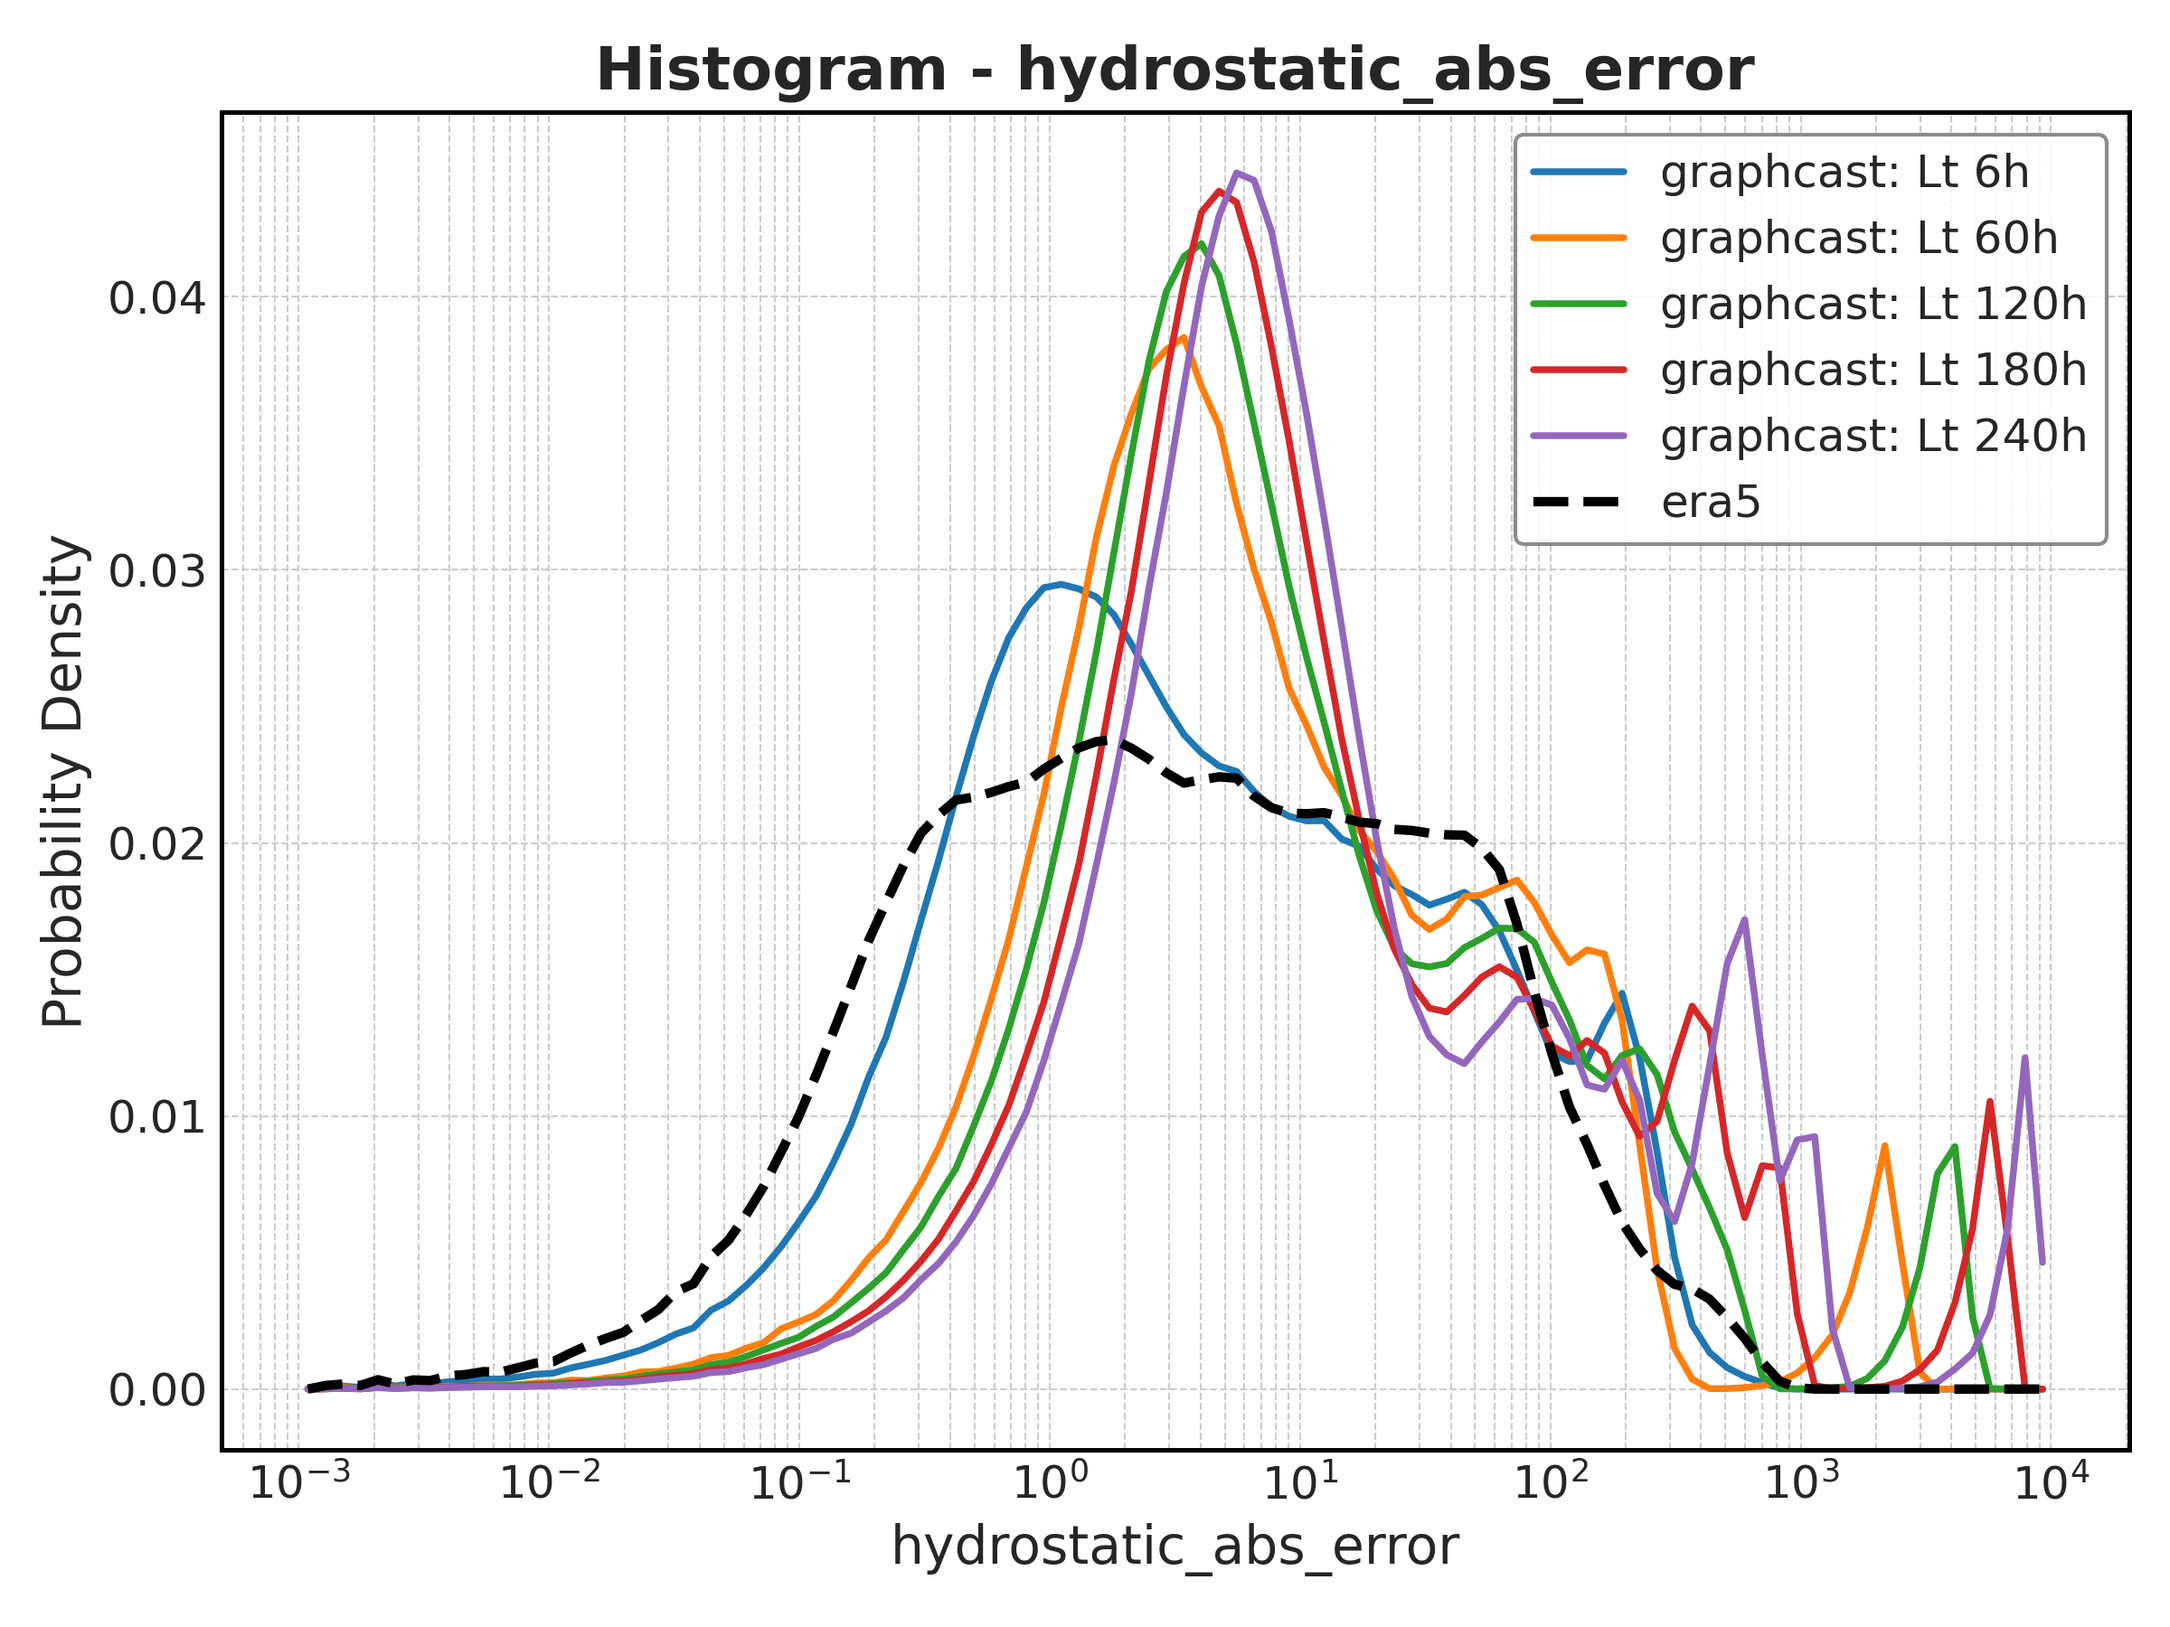
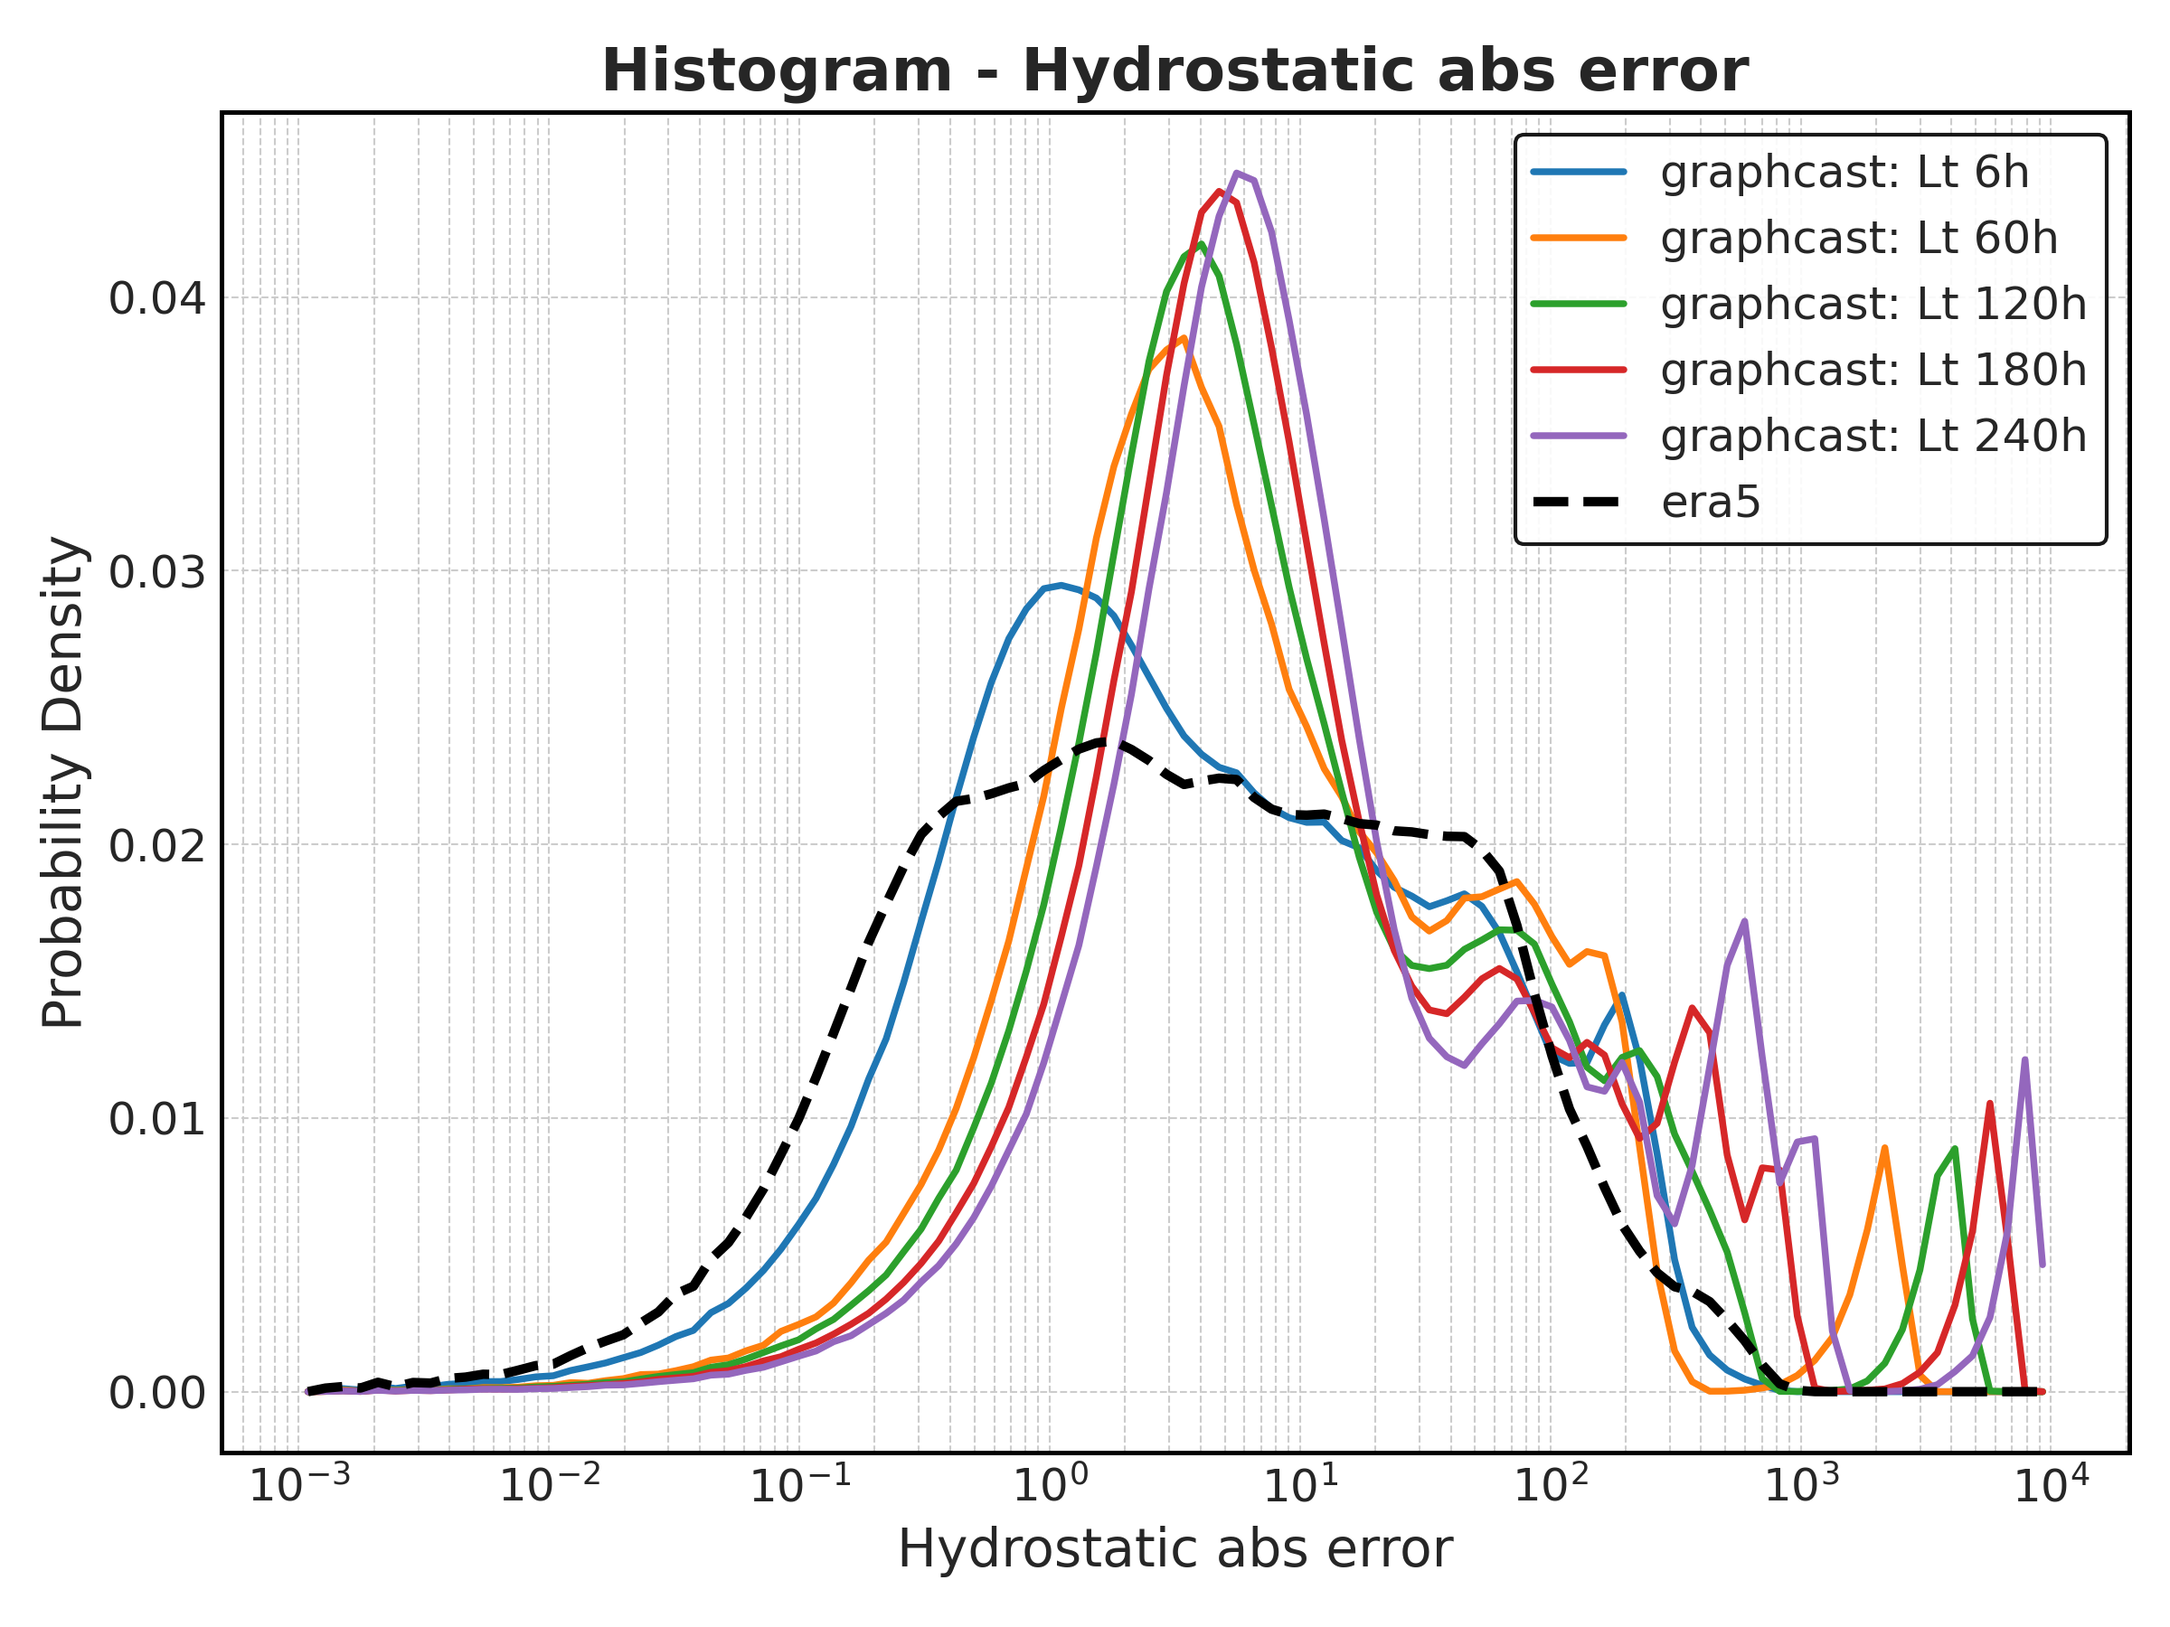
add vertical profiles

diff --git a/pace/utils/plot_utils/vertical_profile.py b/pace/utils/plot_utils/vertical_profile.py
@@ -1,0 +1,192 @@
+import numpy as np
+from pathlib import Path
+import matplotlib.pyplot as plt
+from typing import List, Dict, Tuple, Optional
+import seaborn as sns
+
+
+def compute_summary_stats(
+    store: Dict[Tuple[str, np.datetime64, int], np.ndarray],
+    selected_leadtimes: Optional[List[int]] = None,
+    summary_stats: List[str] = ["mean", "stdev", "min", "max"],
+) -> Dict[str, Dict[str, np.ndarray]]:
+    """
+    Compute summary statistics over lat/lon per vertical level, sample-wise then averaged.
+
+    Parameters:
+    - store: dict of {(var_name, base_time, lead_time): np.ndarray}, shape [1, level, lat, lon]
+    - selected_leadtimes: list of lead times for model, None for reference (all leadtimes)
+    - summary_stats: list of stats to compute: mean, stdev, min, max
+
+    Returns:
+    - results: dict[var_name][stat] = np.ndarray shape [num_levels] for reference or
+      shape [num_leadtimes, num_levels] for model.
+    """
+
+    # Use nan-safe numpy funcs
+    stat_funcs = {
+        "mean": np.nanmean,
+        "stdev": np.nanstd,
+        "min": np.nanmin,
+        "max": np.nanmax,
+    }
+
+    # Accumulate per sample statistics in lists:
+    # For model: var_name -> lead_time -> stat -> list of arrays shape [levels]
+    # For reference: var_name -> stat -> list of arrays shape [levels]
+    if selected_leadtimes is not None:
+        # MODEL
+        data_accum = {}
+        for (var_name, base_time, lead_time), arr in store.items():
+            if lead_time not in selected_leadtimes:
+                continue
+            if var_name not in data_accum:
+                data_accum[var_name] = {}
+            if lead_time not in data_accum[var_name]:
+                data_accum[var_name][lead_time] = {stat: [] for stat in summary_stats}
+
+            data = np.array(arr)  # shape [1, level, lat, lon]
+            data = data.squeeze()  # [level, lat, lon]
+            if data.ndim != 3:
+                # print(f"Skipping sample {var_name} {base_time} {lead_time}, unexpected shape {data.shape}")
+                continue
+
+            for stat in summary_stats:
+                val = stat_funcs[stat](data, axis=(-2, -1))  # nan-aware over lat/lon
+                data_accum[var_name][lead_time][stat].append(val)
+
+        # Now average all per-sample stats for each var, lead_time, stat
+        results = {}
+        for var_name, lt_dict in data_accum.items():
+            results[var_name] = {}
+            for stat in summary_stats:
+                # collect all lead_time arrays for this stat: shape [num_leadtimes, levels]
+                stat_per_lt = []
+                leadtimes_sorted = sorted(lt_dict.keys())
+                for lt in leadtimes_sorted:
+                    arrs = lt_dict[lt][stat]  # list of arrays shape [levels]
+                    # mean over all samples for this leadtime
+                    mean_arr = np.nanmean(arrs, axis=0)
+                    stat_per_lt.append(mean_arr)
+                results[var_name][stat] = np.stack(stat_per_lt, axis=0)  # shape [num_leadtimes, levels]
+    
+    else:
+        # REFERENCE: accumulate stats over all samples (all base_time and lead_time)
+        data_accum = {}
+        for (var_name, base_time, lead_time), arr in store.items():
+            if var_name not in data_accum:
+                data_accum[var_name] = {stat: [] for stat in summary_stats}
+
+            data = np.array(arr)  # [1, level, lat, lon]
+            data = data.squeeze()  # [level, lat, lon]
+            if data.ndim != 3:
+                # print(f"Skipping sample {var_name} {base_time} {lead_time}, unexpected shape {data.shape}")
+                continue
+
+            for stat in summary_stats:
+                val = stat_funcs[stat](data, axis=(-2, -1))
+                data_accum[var_name][stat].append(val)
+
+        results = {}
+        for var_name, stat_dict in data_accum.items():
+            results[var_name] = {}
+            for stat in summary_stats:
+                arrs = stat_dict[stat]  # list of arrays shape [levels,]
+                if len(arrs) == 0:
+                    print(f"No valid samples for {var_name} stat {stat}")
+                    continue
+                stacked = np.stack(arrs, axis=0)  # shape [num_samples, levels]
+                # Average over all samples (axis=0) -> result shape [levels,]
+                results[var_name][stat] = np.nanmean(stacked, axis=0)
+
+    return results
+
+
+def plot_profiles(
+    results_model: Dict[str, Dict[str, np.ndarray]],
+    results_ref: Optional[Dict[str, Dict[str, np.ndarray]]],
+    output_dir: Path,
+    summary_stats: List[str],
+    model_name: str = "Model",
+    ref_name: str = "Reference",
+):
+    """
+    Plot vertical profiles for each variable and summary stat.
+
+    Model: results_model[var][stat] shape [num_leadtimes, levels]
+    Reference: results_ref[var][stat] shape [levels]
+
+    vertical_levels inferred as integers [0,...,n_levels-1]
+    """
+
+    sns.set_style("whitegrid")
+    out_dir = output_dir / "vertical_profiles"
+    out_dir.mkdir(parents=True, exist_ok=True)
+
+    for var_name in results_model.keys():
+        for stat in summary_stats:
+            plt.figure(figsize=(6, 8))
+
+            data_model = results_model[var_name].get(stat)
+            if data_model is None:
+                continue
+
+            # Determine number of levels from data_model shape
+            if data_model.ndim == 2:
+                n_levels = data_model.shape[1]
+            else:  
+                continue
+
+            vertical_levels = np.arange(n_levels)
+
+            # Plot model lead times
+            num_leadtimes = data_model.shape[0]
+
+            # Create color palette for num_leadtimes
+            palette = sns.color_palette("tab10", n_colors=num_leadtimes)
+
+            for i in range(num_leadtimes):
+                plt.plot(
+                    data_model[i], vertical_levels,
+                    label=f"{model_name} Lt {i+1}",
+                    color=palette[i % len(palette)],
+                    linewidth=1.8,
+                )
+
+            # Plot reference as a thick black line if available
+            if results_ref and var_name in results_ref and stat in results_ref[var_name]:
+                data_ref = results_ref[var_name][stat]
+                if data_ref.shape[0] == n_levels:
+                    plt.plot(
+                        data_ref, vertical_levels,
+                        label=f"{ref_name}",
+                        color='black',
+                        linewidth=2.5,
+                        linestyle='--',
+                    )
+                else:
+                    print(f"Reference data shape mismatch for {var_name} {stat}: {data_ref.shape} vs {n_levels}")
+
+            ax = plt.gca()
+            ax.invert_yaxis()  # pressure or height: usually top-down
+            plt.xlabel(f"{var_name.replace('_', ' ').capitalize()} ({stat})", fontsize=14)
+            plt.ylabel("Vertical Level", fontsize=14)
+            plt.title(f"Vertical Profile of {var_name.replace('_', ' ').capitalize()} ({stat})", fontsize=14, weight='bold')
+
+            # Styling from histograms:
+            ax.tick_params(axis='both', which='major', labelsize=12, direction='in', length=6, width=1.2)
+            ax.tick_params(axis='both', which='minor', direction='in', length=3, width=1)
+            for spine in ax.spines.values():
+                spine.set_linewidth(1.2)
+                spine.set_color('black')
+
+            plt.grid(True, which='both', linestyle='--', linewidth=0.5, alpha=1)
+
+            leg = plt.legend(frameon=True, fontsize=12, loc='best', edgecolor='black', fancybox=True)
+            leg.get_frame().set_alpha(0.9)
+
+            plt.tight_layout()
+            filename = f"{var_name}_{stat}.png"
+            plt.savefig(out_dir / filename, dpi=300)
+            print(f"Saved: {out_dir}/{filename}")
+            plt.close()

diff --git a/pace/postprocess.py b/pace/postprocess.py
@@ -5,7 +5,6 @@ from pathlib import Path
 import time
 import zarr  
 
-
 def is_viz_enabled(config: dict, key: str) -> bool:
     """
     Check if a visualization type is enabled in config.
@@ -91,47 +90,69 @@ def main():
     outputs_dir = Path(os.path.expandvars(config["outputs_dir"]))
     plots_dir = Path(os.path.expandvars(str(config["visualization"].get("plots_dir") or Path(os.path.abspath(os.path.dirname(__file__))) / "plots")))
 
+    model_name = config['datasets']['model']['name']
+    total_leadtimes = config["time"]["lead_times"]
+    model_path = outputs_dir / f"{model_name}.zarr"
+    model_leadtimes = select_sample_leadtimes(model_path, total_expected=total_leadtimes)
+    model_store = unpack_custom_zarr_vars(model_path)
+
+    ref_name = None
+    ref_store = {}
+    if "reference" in config["datasets"] and config["datasets"]["reference"].get("name"):
+        ref_name = config['datasets']['reference']['name']
+        ref_path = outputs_dir / f"{ref_name}.zarr"
+        ref_store = unpack_custom_zarr_vars(ref_path)
+
     # --- HISTOGRAM visualization ---
     if is_viz_enabled(config, "histogram"):
         print("Running histogram visualization...")
         from utils.plot_utils import histogram  # only import if needed
 
-        model_name = config['datasets']['model']['name']
         bin_config = histogram.BIN_CONFIG
-        total_leadtimes = config["time"]["lead_times"]
-
-        model_path = outputs_dir / f"{model_name}.zarr"
-        model_leadtimes = select_sample_leadtimes(model_path, total_expected=total_leadtimes)
-        model_store = unpack_custom_zarr_vars(model_path)
 
         _, model_hist = histogram.compute_histograms(
             model_store, selected_leadtimes=model_leadtimes, bin_config=bin_config
         )
 
-        ref_hist = {}
-        ref_name = None
-        if "reference" in config["datasets"] and config["datasets"]["reference"].get("name"):
-            ref_name = config['datasets']['reference']['name']
-            ref_path = outputs_dir / f"{ref_name}.zarr"
-            ref_store = unpack_custom_zarr_vars(ref_path)
-            _, ref_hist = histogram.compute_histograms(
-                ref_store, selected_leadtimes=None, bin_config=bin_config
-            )
+        _, ref_hist = histogram.compute_histograms(
+            ref_store, selected_leadtimes=None, bin_config=bin_config
+        ) if ref_store else ({}, {})
 
         histogram.plot_hist(model_hist, ref_hist, plots_dir, bin_config, model_name, ref_name)
-
     else:
-        print("Histogram visualization disabled in config.")
+        print("Histogram visualization disabled in config.\n")
 
-    # --- OTHER visualizations can follow here ---
-    # Example:
-    # if is_viz_enabled(config, "scatter"):
-    #     from utils.plot_utils import scatter
-    #     scatter.plot_something(...)
+    # --- VERTICAL PROFILE visualization ---
+    if is_viz_enabled(config, "vertical_profile"):
+        print("\nRunning vertical profile visualization...")
+        from utils.plot_utils import vertical_profile
+
+        summary_stats = config.get("visualization", {}).get("summary_stats", ["mean"])
+
+        profiles = vertical_profile.compute_summary_stats(
+            model_store,
+            selected_leadtimes=model_leadtimes,
+            summary_stats=summary_stats,
+        )
+        ref_profiles = vertical_profile.compute_summary_stats(
+            ref_store,
+            selected_leadtimes=None,
+            summary_stats=summary_stats,
+        ) if ref_store else {}
+
+        vertical_profile.plot_profiles(
+            profiles,
+            ref_profiles,
+            plots_dir,
+            summary_stats,
+            model_name,
+            ref_name,
+        )
+    else:
+        print("Vertical profile visualization disabled in config.\n")
 
     time_end = time.perf_counter()
-    print(f"Elapsed time: {time_end - time_start:.2f} s")
-
+    print(f"\nElapsed time: {time_end - time_start:.2f} s")
 
 if __name__ == "__main__":
     main()

diff --git a/pace/utils/plot_utils/histogram.py b/pace/utils/plot_utils/histogram.py
@@ -115,7 +115,7 @@ def plot_hist(
     for metric in model_hist.keys():
         plt.figure(figsize=(8, 6))
 
-        # Plot model histograms with colors and markers
+        # Plot model histograms with colors
         for i, (lt, (centers, counts)) in enumerate(sorted(model_hist[metric].items(), key=lambda x: x[0])):
             plt.plot(
                 centers, counts,
@@ -141,8 +141,8 @@ def plot_hist(
                 color='black'
             )
 
-        plt.title(f"Histogram - {metric}", fontsize=16, weight='bold')
-        plt.xlabel(metric, fontsize=14)
+        plt.title(f"Histogram - {metric.replace('_', ' ').capitalize()}", fontsize=16, weight='bold')
+        plt.xlabel(f"{metric.replace('_', ' ').capitalize()}", fontsize=14)
         plt.ylabel("Probability Density", fontsize=14)
 
         # Improve axes aesthetics
@@ -161,7 +161,7 @@ def plot_hist(
                 plt.xscale("log")
 
         # Legend styling
-        leg = plt.legend(frameon=True, fontsize=12, loc='best', edgecolor='gray', fancybox=True)
+        leg = plt.legend(frameon=True, fontsize=12, loc='best', edgecolor='black', fancybox=True)
         leg.get_frame().set_alpha(0.9)
 
         plt.tight_layout()
